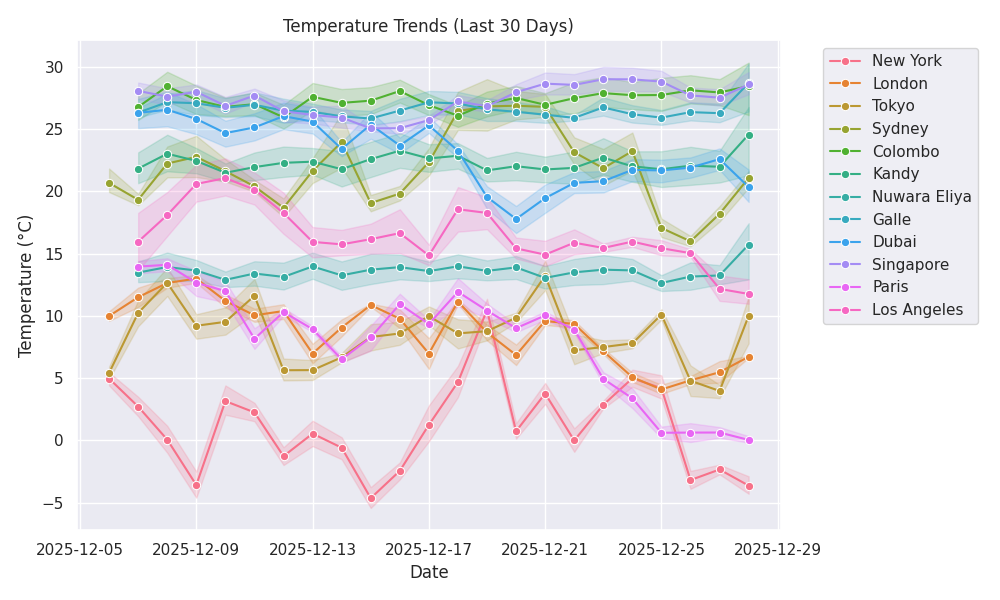
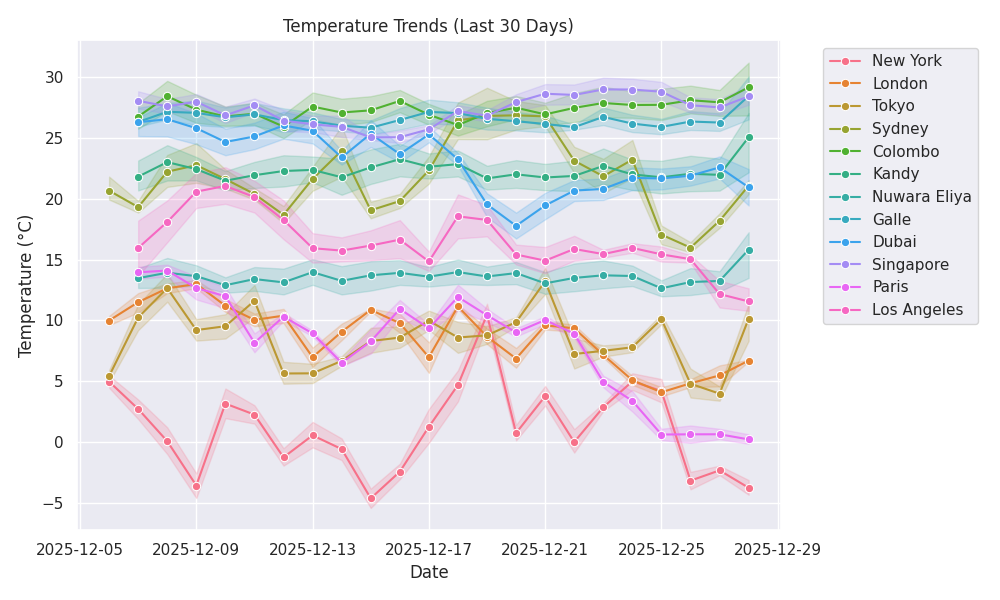
🌦 Weather update: 2025-12-28 07:14

diff --git a/public/index.html b/public/index.html
@@ -11,7 +11,7 @@
     <div class="max-w-6xl mx-auto">
         <header class="mb-8 text-center">
             <h1 class="text-4xl font-bold mb-2">🌍 Global Weather Dashboard</h1>
-            <p class="text-slate-400">Last Updated: 2025-12-28 06:20:28</p>
+            <p class="text-slate-400">Last Updated: 2025-12-28 07:14:33</p>
         </header>
         
         <!-- AI Summary -->
@@ -29,12 +29,12 @@
                     <span class="text-3xl">🌫</span>
                 </div>
                 <div class="mt-4">
-                    <p class="text-4xl font-bold">0.6°C</p>
+                    <p class="text-4xl font-bold">1.07°C</p>
                     <p class="text-slate-400 capitalize">mist</p>
                 </div>
                 <div class="mt-4 text-sm text-slate-500">
                     <p>💧 Humidity: 96%</p>
-                    <p>💨 Wind: 5.66 m/s</p>
+                    <p>💨 Wind: 5.14 m/s</p>
                 </div>
             </div>
             
@@ -44,12 +44,12 @@
                     <span class="text-3xl">☁</span>
                 </div>
                 <div class="mt-4">
-                    <p class="text-4xl font-bold">6.59°C</p>
+                    <p class="text-4xl font-bold">6.6°C</p>
                     <p class="text-slate-400 capitalize">overcast clouds</p>
                 </div>
                 <div class="mt-4 text-sm text-slate-500">
-                    <p>💧 Humidity: 77%</p>
-                    <p>💨 Wind: 3.6 m/s</p>
+                    <p>💧 Humidity: 76%</p>
+                    <p>💨 Wind: 4.12 m/s</p>
                 </div>
             </div>
             
@@ -59,26 +59,26 @@
                     <span class="text-3xl">☁</span>
                 </div>
                 <div class="mt-4">
-                    <p class="text-4xl font-bold">21.77°C</p>
-                    <p class="text-slate-400 capitalize">broken clouds</p>
+                    <p class="text-4xl font-bold">21.12°C</p>
+                    <p class="text-slate-400 capitalize">scattered clouds</p>
                 </div>
                 <div class="mt-4 text-sm text-slate-500">
-                    <p>💧 Humidity: 53%</p>
-                    <p>💨 Wind: 2.68 m/s</p>
+                    <p>💧 Humidity: 56%</p>
+                    <p>💨 Wind: 8.23 m/s</p>
                 </div>
             </div>
             
             <div class="bg-slate-800 p-6 rounded-xl shadow-lg border-t-4 border-blue-500 hover:scale-105 transition-transform">
                 <div class="flex justify-between items-start">
                     <h3 class="text-xl font-bold">Singapore</h3>
-                    <span class="text-3xl">⛈</span>
+                    <span class="text-3xl">🌧</span>
                 </div>
                 <div class="mt-4">
-                    <p class="text-4xl font-bold">27.5°C</p>
-                    <p class="text-slate-400 capitalize">thunderstorm with light rain</p>
+                    <p class="text-4xl font-bold">27.68°C</p>
+                    <p class="text-slate-400 capitalize">light intensity shower rain</p>
                 </div>
                 <div class="mt-4 text-sm text-slate-500">
-                    <p>💧 Humidity: 84%</p>
+                    <p>💧 Humidity: 85%</p>
                     <p>💨 Wind: 2.06 m/s</p>
                 </div>
             </div>
@@ -86,14 +86,14 @@
             <div class="bg-slate-800 p-6 rounded-xl shadow-lg border-t-4 border-blue-500 hover:scale-105 transition-transform">
                 <div class="flex justify-between items-start">
                     <h3 class="text-xl font-bold">Dubai</h3>
-                    <span class="text-3xl">☁</span>
+                    <span class="text-3xl">☀</span>
                 </div>
                 <div class="mt-4">
-                    <p class="text-4xl font-bold">22.96°C</p>
-                    <p class="text-slate-400 capitalize">broken clouds</p>
+                    <p class="text-4xl font-bold">23.96°C</p>
+                    <p class="text-slate-400 capitalize">clear sky</p>
                 </div>
                 <div class="mt-4 text-sm text-slate-500">
-                    <p>💧 Humidity: 60%</p>
+                    <p>💧 Humidity: 50%</p>
                     <p>💨 Wind: 3.09 m/s</p>
                 </div>
             </div>
@@ -104,12 +104,12 @@
                     <span class="text-3xl">☁</span>
                 </div>
                 <div class="mt-4">
-                    <p class="text-4xl font-bold">31.07°C</p>
-                    <p class="text-slate-400 capitalize">broken clouds</p>
+                    <p class="text-4xl font-bold">27.31°C</p>
+                    <p class="text-slate-400 capitalize">overcast clouds</p>
                 </div>
                 <div class="mt-4 text-sm text-slate-500">
-                    <p>💧 Humidity: 71%</p>
-                    <p>💨 Wind: 0.45 m/s</p>
+                    <p>💧 Humidity: 75%</p>
+                    <p>💨 Wind: 4.4 m/s</p>
                 </div>
             </div>
             
@@ -119,12 +119,12 @@
                     <span class="text-3xl">☁</span>
                 </div>
                 <div class="mt-4">
-                    <p class="text-4xl font-bold">17.61°C</p>
-                    <p class="text-slate-400 capitalize">broken clouds</p>
+                    <p class="text-4xl font-bold">16.32°C</p>
+                    <p class="text-slate-400 capitalize">overcast clouds</p>
                 </div>
                 <div class="mt-4 text-sm text-slate-500">
-                    <p>💧 Humidity: 70%</p>
-                    <p>💨 Wind: 2.02 m/s</p>
+                    <p>💧 Humidity: 76%</p>
+                    <p>💨 Wind: 1.9 m/s</p>
                 </div>
             </div>
             
@@ -134,12 +134,12 @@
                     <span class="text-3xl">☁</span>
                 </div>
                 <div class="mt-4">
-                    <p class="text-4xl font-bold">27.35°C</p>
-                    <p class="text-slate-400 capitalize">broken clouds</p>
+                    <p class="text-4xl font-bold">27.58°C</p>
+                    <p class="text-slate-400 capitalize">overcast clouds</p>
                 </div>
                 <div class="mt-4 text-sm text-slate-500">
-                    <p>💧 Humidity: 60%</p>
-                    <p>💨 Wind: 1.62 m/s</p>
+                    <p>💧 Humidity: 58%</p>
+                    <p>💨 Wind: 1.51 m/s</p>
                 </div>
             </div>
             
@@ -149,12 +149,12 @@
                     <span class="text-3xl">☁</span>
                 </div>
                 <div class="mt-4">
-                    <p class="text-4xl font-bold">31.13°C</p>
+                    <p class="text-4xl font-bold">32.8°C</p>
                     <p class="text-slate-400 capitalize">overcast clouds</p>
                 </div>
                 <div class="mt-4 text-sm text-slate-500">
-                    <p>💧 Humidity: 60%</p>
-                    <p>💨 Wind: 3.51 m/s</p>
+                    <p>💧 Humidity: 54%</p>
+                    <p>💨 Wind: 6.06 m/s</p>
                 </div>
             </div>
             
@@ -164,12 +164,12 @@
                     <span class="text-3xl">☀</span>
                 </div>
                 <div class="mt-4">
-                    <p class="text-4xl font-bold">-4.76°C</p>
+                    <p class="text-4xl font-bold">-4.47°C</p>
                     <p class="text-slate-400 capitalize">clear sky</p>
                 </div>
                 <div class="mt-4 text-sm text-slate-500">
-                    <p>💧 Humidity: 82%</p>
-                    <p>💨 Wind: 2.06 m/s</p>
+                    <p>💧 Humidity: 81%</p>
+                    <p>💨 Wind: 3.6 m/s</p>
                 </div>
             </div>
             
@@ -179,12 +179,12 @@
                     <span class="text-3xl">☁</span>
                 </div>
                 <div class="mt-4">
-                    <p class="text-4xl font-bold">11.84°C</p>
+                    <p class="text-4xl font-bold">10.86°C</p>
                     <p class="text-slate-400 capitalize">few clouds</p>
                 </div>
                 <div class="mt-4 text-sm text-slate-500">
-                    <p>💧 Humidity: 36%</p>
-                    <p>💨 Wind: 3.09 m/s</p>
+                    <p>💧 Humidity: 37%</p>
+                    <p>💨 Wind: 4.63 m/s</p>
                 </div>
             </div>
             
@@ -194,12 +194,12 @@
                     <span class="text-3xl">☀</span>
                 </div>
                 <div class="mt-4">
-                    <p class="text-4xl font-bold">10.63°C</p>
+                    <p class="text-4xl font-bold">10.57°C</p>
                     <p class="text-slate-400 capitalize">clear sky</p>
                 </div>
                 <div class="mt-4 text-sm text-slate-500">
-                    <p>💧 Humidity: 78%</p>
-                    <p>💨 Wind: 0.0 m/s</p>
+                    <p>💧 Humidity: 77%</p>
+                    <p>💨 Wind: 3.09 m/s</p>
                 </div>
             </div>
             

diff --git a/README.md b/README.md
@@ -8,8 +8,8 @@
 
 ---
 
-## ⚡ Live Status (Updated: 2025-12-28 06:20 UTC)
-![Paris](https://img.shields.io/badge/Paris-0.6°C-blue) ![London](https://img.shields.io/badge/London-6.59°C-blue) ![Sydney](https://img.shields.io/badge/Sydney-21.77°C-green) ![Singapore](https://img.shields.io/badge/Singapore-27.5°C-orange) ![Dubai](https://img.shields.io/badge/Dubai-22.96°C-green) ![Galle](https://img.shields.io/badge/Galle-31.07°C-red) ![Nuwara Eliya](https://img.shields.io/badge/Nuwara%20Eliya-17.61°C-green) ![Kandy](https://img.shields.io/badge/Kandy-27.35°C-orange) ![Colombo](https://img.shields.io/badge/Colombo-31.13°C-red) ![New York](https://img.shields.io/badge/New%20York--4.76°C-blue) ![Tokyo](https://img.shields.io/badge/Tokyo-11.84°C-blue) ![Los Angeles](https://img.shields.io/badge/Los%20Angeles-10.63°C-blue) 
+## ⚡ Live Status (Updated: 2025-12-28 07:14 UTC)
+![Paris](https://img.shields.io/badge/Paris-1.07°C-blue) ![London](https://img.shields.io/badge/London-6.6°C-blue) ![Sydney](https://img.shields.io/badge/Sydney-21.12°C-green) ![Singapore](https://img.shields.io/badge/Singapore-27.68°C-orange) ![Dubai](https://img.shields.io/badge/Dubai-23.96°C-green) ![Galle](https://img.shields.io/badge/Galle-27.31°C-orange) ![Nuwara Eliya](https://img.shields.io/badge/Nuwara%20Eliya-16.32°C-green) ![Kandy](https://img.shields.io/badge/Kandy-27.58°C-orange) ![Colombo](https://img.shields.io/badge/Colombo-32.8°C-red) ![New York](https://img.shields.io/badge/New%20York--4.47°C-blue) ![Tokyo](https://img.shields.io/badge/Tokyo-10.86°C-blue) ![Los Angeles](https://img.shields.io/badge/Los%20Angeles-10.57°C-blue) 
 
 <div align="center">
   <h3>🏆 Weather Records (Live)</h3>
@@ -19,8 +19,8 @@
         <td align="center">❄ <b>Coldest City</b></td>
     </tr>
     <tr>
-        <td align="center"><b>Colombo</b><br>31.13°C</td>
-        <td align="center"><b>New York</b><br>-4.76°C</td>
+        <td align="center"><b>Colombo</b><br>32.8°C</td>
+        <td align="center"><b>New York</b><br>-4.47°C</td>
     </tr>
   </table>
 </div>
@@ -28,18 +28,18 @@
 ## 📊 Global Overview
 | 🌍 City | 🌡 Temp | 🌤 Condition | 💧 Humidity | 🌬 Wind |
 |---|---|---|---|---|
-| **Paris** | 0.6°C | mist | 🟦🟦🟦🟦⬜ 96% | 5.66 m/s |
-| **London** | 6.59°C | overcast clouds | 🟦🟦🟦⬜⬜ 77% | 3.6 m/s |
-| **Sydney** | 21.77°C | broken clouds | 🟦🟦⬜⬜⬜ 53% | 2.68 m/s |
-| **Singapore** | 27.5°C | thunderstorm with light rain | 🟦🟦🟦🟦⬜ 84% | 2.06 m/s |
-| **Dubai** | 22.96°C | broken clouds | 🟦🟦🟦⬜⬜ 60% | 3.09 m/s |
-| **Galle** | 31.07°C | broken clouds | 🟦🟦🟦⬜⬜ 71% | 0.45 m/s |
-| **Nuwara Eliya** | 17.61°C | broken clouds | 🟦🟦🟦⬜⬜ 70% | 2.02 m/s |
-| **Kandy** | 27.35°C | broken clouds | 🟦🟦🟦⬜⬜ 60% | 1.62 m/s |
-| **Colombo** | 31.13°C | overcast clouds | 🟦🟦🟦⬜⬜ 60% | 3.51 m/s |
-| **New York** | -4.76°C | clear sky | 🟦🟦🟦🟦⬜ 82% | 2.06 m/s |
-| **Tokyo** | 11.84°C | few clouds | 🟦⬜⬜⬜⬜ 36% | 3.09 m/s |
-| **Los Angeles** | 10.63°C | clear sky | 🟦🟦🟦⬜⬜ 78% | 0.0 m/s |
+| **Paris** | 1.07°C | mist | 🟦🟦🟦🟦⬜ 96% | 5.14 m/s |
+| **London** | 6.6°C | overcast clouds | 🟦🟦🟦⬜⬜ 76% | 4.12 m/s |
+| **Sydney** | 21.12°C | scattered clouds | 🟦🟦⬜⬜⬜ 56% | 8.23 m/s |
+| **Singapore** | 27.68°C | light intensity shower rain | 🟦🟦🟦🟦⬜ 85% | 2.06 m/s |
+| **Dubai** | 23.96°C | clear sky | 🟦🟦⬜⬜⬜ 50% | 3.09 m/s |
+| **Galle** | 27.31°C | overcast clouds | 🟦🟦🟦⬜⬜ 75% | 4.4 m/s |
+| **Nuwara Eliya** | 16.32°C | overcast clouds | 🟦🟦🟦⬜⬜ 76% | 1.9 m/s |
+| **Kandy** | 27.58°C | overcast clouds | 🟦🟦⬜⬜⬜ 58% | 1.51 m/s |
+| **Colombo** | 32.8°C | overcast clouds | 🟦🟦⬜⬜⬜ 54% | 6.06 m/s |
+| **New York** | -4.47°C | clear sky | 🟦🟦🟦🟦⬜ 81% | 3.6 m/s |
+| **Tokyo** | 10.86°C | few clouds | 🟦⬜⬜⬜⬜ 37% | 4.63 m/s |
+| **Los Angeles** | 10.57°C | clear sky | 🟦🟦🟦⬜⬜ 77% | 3.09 m/s |
 
 
 ## 📈 Temperature Trends
